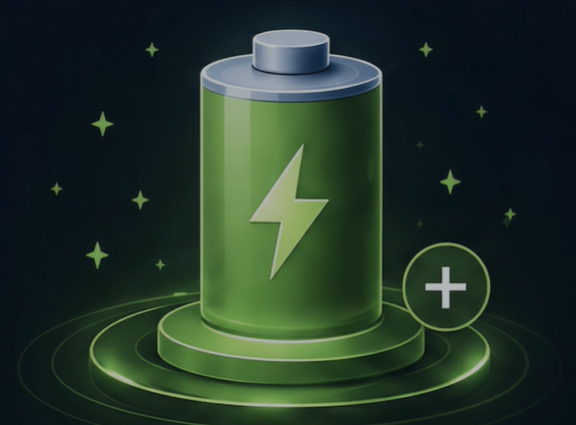
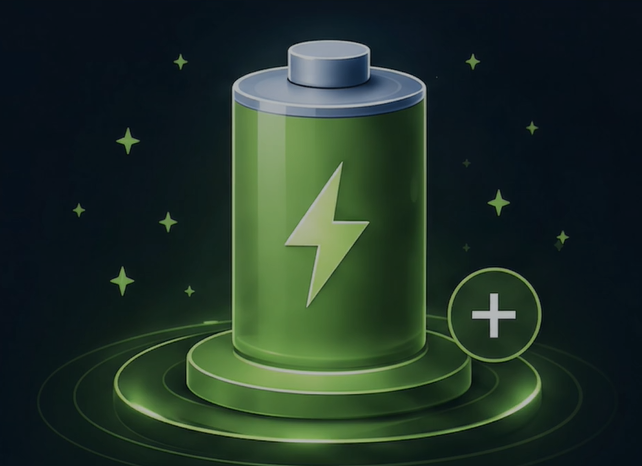
Fix Boosts & Rewards row: explicit flex-shrink 0, mouse drag & wheel scrolling, arrow buttons, and all 7 cards with posters

diff --git a/frontend/src/components/BoostsRewardsRow.module.css b/frontend/src/components/BoostsRewardsRow.module.css
@@ -1,33 +1,46 @@
 .scrollWrapper {
-  width: calc(100% + 28px);
-  margin: 6px -14px 14px -14px;
+  width: 100%;
   position: relative;
   z-index: 15;
+  margin: 10px 0 16px 0;
+  overflow: visible;
 }
 
 .scrollContainer {
-  display: flex;
-  flex-direction: row;
-  flex-wrap: nowrap;
-  overflow-x: auto;
-  overflow-y: hidden;
+  display: flex !important;
+  flex-direction: row !important;
+  flex-wrap: nowrap !important;
+  overflow-x: auto !important;
+  overflow-y: hidden !important;
   scroll-snap-type: x mandatory;
   -webkit-overflow-scrolling: touch;
-  touch-action: pan-x pan-y;
+  touch-action: pan-x;
   gap: 12px;
-  padding: 6px 16px 12px 16px;
-  scrollbar-width: none;
-  -ms-overflow-style: none;
+  padding: 8px 16px 16px 16px;
+  width: 100%;
+  box-sizing: border-box;
+  scrollbar-width: none !important;
+  -ms-overflow-style: none !important;
+  cursor: grab;
+}
+
+.scrollContainer:active {
+  cursor: grabbing;
 }
 
 .scrollContainer::-webkit-scrollbar {
-  display: none;
+  display: none !important;
+  width: 0 !important;
+  height: 0 !important;
 }
 
 .card {
-  flex: 0 0 145px;
-  width: 145px;
-  height: 185px;
+  flex: 0 0 150px !important;
+  flex-shrink: 0 !important;
+  min-width: 150px !important;
+  max-width: 150px !important;
+  width: 150px !important;
+  height: 190px !important;
   scroll-snap-align: center;
   background: #0a0e27;
   border-radius: 18px;
@@ -57,65 +70,65 @@
 
 /* Glow & Border Accents matching each card's theme */
 .glowBlue {
-  border: 1px solid rgba(0, 112, 243, 0.45);
-  box-shadow: 0 0 16px rgba(0, 112, 243, 0.25), inset 0 0 8px rgba(0, 112, 243, 0.08);
+  border: 1px solid rgba(0, 112, 243, 0.5);
+  box-shadow: 0 0 16px rgba(0, 112, 243, 0.3), inset 0 0 8px rgba(0, 112, 243, 0.1);
 }
 .glowBlue:hover {
-  box-shadow: 0 0 22px rgba(0, 112, 243, 0.4), inset 0 0 10px rgba(0, 112, 243, 0.15);
+  box-shadow: 0 0 24px rgba(0, 112, 243, 0.5), inset 0 0 10px rgba(0, 112, 243, 0.2);
 }
 
 .glowOrange {
-  border: 1px solid rgba(249, 115, 22, 0.45);
-  box-shadow: 0 0 16px rgba(249, 115, 22, 0.25), inset 0 0 8px rgba(249, 115, 22, 0.08);
+  border: 1px solid rgba(249, 115, 22, 0.5);
+  box-shadow: 0 0 16px rgba(249, 115, 22, 0.3), inset 0 0 8px rgba(249, 115, 22, 0.1);
 }
 .glowOrange:hover {
-  box-shadow: 0 0 22px rgba(249, 115, 22, 0.4), inset 0 0 10px rgba(249, 115, 22, 0.15);
+  box-shadow: 0 0 24px rgba(249, 115, 22, 0.5), inset 0 0 10px rgba(249, 115, 22, 0.2);
 }
 
 .glowPurple {
-  border: 1px solid rgba(217, 70, 239, 0.45);
-  box-shadow: 0 0 16px rgba(217, 70, 239, 0.25), inset 0 0 8px rgba(217, 70, 239, 0.08);
+  border: 1px solid rgba(217, 70, 239, 0.5);
+  box-shadow: 0 0 16px rgba(217, 70, 239, 0.3), inset 0 0 8px rgba(217, 70, 239, 0.1);
 }
 .glowPurple:hover {
-  box-shadow: 0 0 22px rgba(217, 70, 239, 0.4), inset 0 0 10px rgba(217, 70, 239, 0.15);
+  box-shadow: 0 0 24px rgba(217, 70, 239, 0.5), inset 0 0 10px rgba(217, 70, 239, 0.2);
 }
 
 .glowGreen {
-  border: 1px solid rgba(34, 197, 94, 0.45);
-  box-shadow: 0 0 16px rgba(34, 197, 94, 0.25), inset 0 0 8px rgba(34, 197, 94, 0.08);
+  border: 1px solid rgba(34, 197, 94, 0.5);
+  box-shadow: 0 0 16px rgba(34, 197, 94, 0.3), inset 0 0 8px rgba(34, 197, 94, 0.1);
 }
 .glowGreen:hover {
-  box-shadow: 0 0 22px rgba(34, 197, 94, 0.4), inset 0 0 10px rgba(34, 197, 94, 0.15);
+  box-shadow: 0 0 24px rgba(34, 197, 94, 0.5), inset 0 0 10px rgba(34, 197, 94, 0.2);
 }
 
 .glowGold {
-  border: 1px solid rgba(234, 179, 8, 0.45);
-  box-shadow: 0 0 16px rgba(234, 179, 8, 0.25), inset 0 0 8px rgba(234, 179, 8, 0.08);
+  border: 1px solid rgba(234, 179, 8, 0.5);
+  box-shadow: 0 0 16px rgba(234, 179, 8, 0.3), inset 0 0 8px rgba(234, 179, 8, 0.1);
 }
 .glowGold:hover {
-  box-shadow: 0 0 22px rgba(234, 179, 8, 0.4), inset 0 0 10px rgba(234, 179, 8, 0.15);
+  box-shadow: 0 0 24px rgba(234, 179, 8, 0.5), inset 0 0 10px rgba(234, 179, 8, 0.2);
 }
 
 .glowIndigo {
-  border: 1px solid rgba(99, 102, 241, 0.45);
-  box-shadow: 0 0 16px rgba(99, 102, 241, 0.25), inset 0 0 8px rgba(99, 102, 241, 0.08);
+  border: 1px solid rgba(99, 102, 241, 0.5);
+  box-shadow: 0 0 16px rgba(99, 102, 241, 0.3), inset 0 0 8px rgba(99, 102, 241, 0.1);
 }
 .glowIndigo:hover {
-  box-shadow: 0 0 22px rgba(99, 102, 241, 0.4), inset 0 0 10px rgba(99, 102, 241, 0.15);
+  box-shadow: 0 0 24px rgba(99, 102, 241, 0.5), inset 0 0 10px rgba(99, 102, 241, 0.2);
 }
 
 .glowAmber {
-  border: 1px solid rgba(245, 158, 11, 0.45);
-  box-shadow: 0 0 16px rgba(245, 158, 11, 0.25), inset 0 0 8px rgba(245, 158, 11, 0.08);
+  border: 1px solid rgba(245, 158, 11, 0.5);
+  box-shadow: 0 0 16px rgba(245, 158, 11, 0.3), inset 0 0 8px rgba(245, 158, 11, 0.1);
 }
 .glowAmber:hover {
-  box-shadow: 0 0 22px rgba(245, 158, 11, 0.4), inset 0 0 10px rgba(245, 158, 11, 0.15);
+  box-shadow: 0 0 24px rgba(245, 158, 11, 0.5), inset 0 0 10px rgba(245, 158, 11, 0.2);
 }
 
 /* Video viewport inside the card */
 .videoWrapper {
   width: 100%;
-  height: 140px;
+  height: 145px;
   position: relative;
   overflow: hidden;
   border-radius: 17px 17px 0 0;
@@ -134,17 +147,6 @@
   border-radius: 17px 17px 0 0;
 }
 
-.posterFallback {
-  width: 100%;
-  height: 100%;
-  object-fit: cover;
-  display: block;
-  pointer-events: none;
-  position: absolute;
-  top: 0;
-  left: 0;
-}
-
 /* Label below the video */
 .labelContainer {
   width: 100%;
@@ -159,11 +161,46 @@
 
 .labelText {
   color: #f1f5f9;
-  font-size: 12.5px;
+  font-size: 13px;
   font-weight: 700;
   letter-spacing: 0.3px;
   white-space: nowrap;
   overflow: hidden;
   text-overflow: ellipsis;
   text-shadow: 0 1px 4px rgba(0, 0, 0, 0.8);
+}
+
+/* Scroll navigation arrow buttons */
+.navBtn {
+  position: absolute;
+  top: 50%;
+  transform: translateY(-50%);
+  width: 36px;
+  height: 36px;
+  border-radius: 50%;
+  background: rgba(10, 14, 39, 0.85);
+  border: 1px solid rgba(255, 255, 255, 0.25);
+  color: #ffffff;
+  display: flex;
+  align-items: center;
+  justify-content: center;
+  cursor: pointer;
+  z-index: 25;
+  backdrop-filter: blur(8px);
+  box-shadow: 0 4px 14px rgba(0, 0, 0, 0.6);
+  transition: all 180ms ease;
+}
+
+.navBtn:hover {
+  background: rgba(0, 112, 243, 0.9);
+  transform: translateY(-50%) scale(1.1);
+  border-color: rgba(255, 255, 255, 0.5);
+}
+
+.navBtnLeft {
+  left: 6px;
+}
+
+.navBtnRight {
+  right: 6px;
 }

diff --git a/frontend/src/components/BoostsRewardsRow.jsx b/frontend/src/components/BoostsRewardsRow.jsx
@@ -1,4 +1,5 @@
 import React, { useState, useRef, useEffect } from 'react';
+import { ChevronLeft, ChevronRight } from 'lucide-react';
 import styles from './BoostsRewardsRow.module.css';
 
 const CARDS_CONFIG = [
@@ -46,7 +47,7 @@ const CARDS_CONFIG = [
     id: 'dailygoal',
     label: 'Daily Goal',
     videoSrc: '/videos/77.mp4',
-    posterSrc: null,
+    posterSrc: '/posters/77.png',
     glowClass: styles.glowIndigo,
     actionKey: 'goal'
   },
@@ -54,18 +55,18 @@ const CARDS_CONFIG = [
     id: 'leaders',
     label: 'Leaders',
     videoSrc: '/videos/88.mp4',
-    posterSrc: null,
+    posterSrc: '/posters/88.png',
     glowClass: styles.glowAmber,
     actionKey: 'leaders'
   }
 ];
 
-function BoostCard({ card, onAction }) {
+function BoostCard({ card, onAction, isDragRef }) {
   const cardRef = useRef(null);
   const videoRef = useRef(null);
   const [isPressed, setIsPressed] = useState(false);
 
-  // Performance Optimization: IntersectionObserver to pause video when scrolled offscreen
+  // Performance: IntersectionObserver pauses offscreen videos, plays in-view
   useEffect(() => {
     const cardEl = cardRef.current;
     const videoEl = videoRef.current;
@@ -82,7 +83,7 @@ function BoostCard({ card, onAction }) {
         });
       },
       {
-        threshold: 0.2
+        threshold: 0.15
       }
     );
 
@@ -91,6 +92,9 @@ function BoostCard({ card, onAction }) {
   }, []);
 
   const handleCardClick = () => {
+    // If the user was dragging to scroll, ignore click action
+    if (isDragRef && isDragRef.current) return;
+
     setIsPressed(true);
     setTimeout(() => {
       setIsPressed(false);
@@ -143,6 +147,73 @@ export default function BoostsRewardsRow({
   onOpenGoal,
   onOpenLeaders
 }) {
+  const containerRef = useRef(null);
+  const isDownRef = useRef(false);
+  const startXRef = useRef(0);
+  const scrollLeftRef = useRef(0);
+  const isDragRef = useRef(false);
+
+  const [canScrollLeft, setCanScrollLeft] = useState(false);
+  const [canScrollRight, setCanScrollRight] = useState(true);
+
+  const updateScrollArrows = () => {
+    if (!containerRef.current) return;
+    const { scrollLeft, scrollWidth, clientWidth } = containerRef.current;
+    setCanScrollLeft(scrollLeft > 20);
+    setCanScrollRight(scrollLeft < scrollWidth - clientWidth - 20);
+  };
+
+  useEffect(() => {
+    const el = containerRef.current;
+    if (!el) return;
+    updateScrollArrows();
+    el.addEventListener('scroll', updateScrollArrows, { passive: true });
+    window.addEventListener('resize', updateScrollArrows, { passive: true });
+    return () => {
+      el.removeEventListener('scroll', updateScrollArrows);
+      window.removeEventListener('resize', updateScrollArrows);
+    };
+  }, []);
+
+  // Mouse Drag to Scroll (for desktop browsers)
+  const handleMouseDown = (e) => {
+    isDownRef.current = true;
+    isDragRef.current = false;
+    startXRef.current = e.pageX - containerRef.current.offsetLeft;
+    scrollLeftRef.current = containerRef.current.scrollLeft;
+  };
+
+  const handleMouseMove = (e) => {
+    if (!isDownRef.current) return;
+    e.preventDefault();
+    const x = e.pageX - containerRef.current.offsetLeft;
+    const walk = (x - startXRef.current) * 1.5;
+    if (Math.abs(walk) > 8) {
+      isDragRef.current = true;
+    }
+    containerRef.current.scrollLeft = scrollLeftRef.current - walk;
+  };
+
+  const handleMouseUp = () => {
+    isDownRef.current = false;
+    setTimeout(() => {
+      isDragRef.current = false;
+    }, 60);
+  };
+
+  // Wheel Horizontal Scrolling
+  const handleWheel = (e) => {
+    if (e.deltaY !== 0 && containerRef.current) {
+      containerRef.current.scrollLeft += e.deltaY;
+    }
+  };
+
+  const scrollByAmount = (amount) => {
+    if (containerRef.current) {
+      containerRef.current.scrollBy({ left: amount, behavior: 'smooth' });
+    }
+  };
+
   const handleAction = (actionKey) => {
     switch (actionKey) {
       case 'shield':
@@ -173,11 +244,46 @@ export default function BoostsRewardsRow({
 
   return (
     <div className={styles.scrollWrapper}>
-      <div className={styles.scrollContainer}>
+      {canScrollLeft && (
+        <button 
+          className={`${styles.navBtn} ${styles.navBtnLeft}`}
+          onClick={() => scrollByAmount(-220)}
+          aria-label="Scroll left"
+          type="button"
+        >
+          <ChevronLeft size={20} />
+        </button>
+      )}
+
+      <div
+        ref={containerRef}
+        className={styles.scrollContainer}
+        onMouseDown={handleMouseDown}
+        onMouseMove={handleMouseMove}
+        onMouseUp={handleMouseUp}
+        onMouseLeave={handleMouseUp}
+        onWheel={handleWheel}
+      >
         {CARDS_CONFIG.map((card) => (
-          <BoostCard key={card.id} card={card} onAction={handleAction} />
+          <BoostCard 
+            key={card.id} 
+            card={card} 
+            onAction={handleAction} 
+            isDragRef={isDragRef}
+          />
         ))}
       </div>
+
+      {canScrollRight && (
+        <button 
+          className={`${styles.navBtn} ${styles.navBtnRight}`}
+          onClick={() => scrollByAmount(220)}
+          aria-label="Scroll right"
+          type="button"
+        >
+          <ChevronRight size={20} />
+        </button>
+      )}
     </div>
   );
 }
